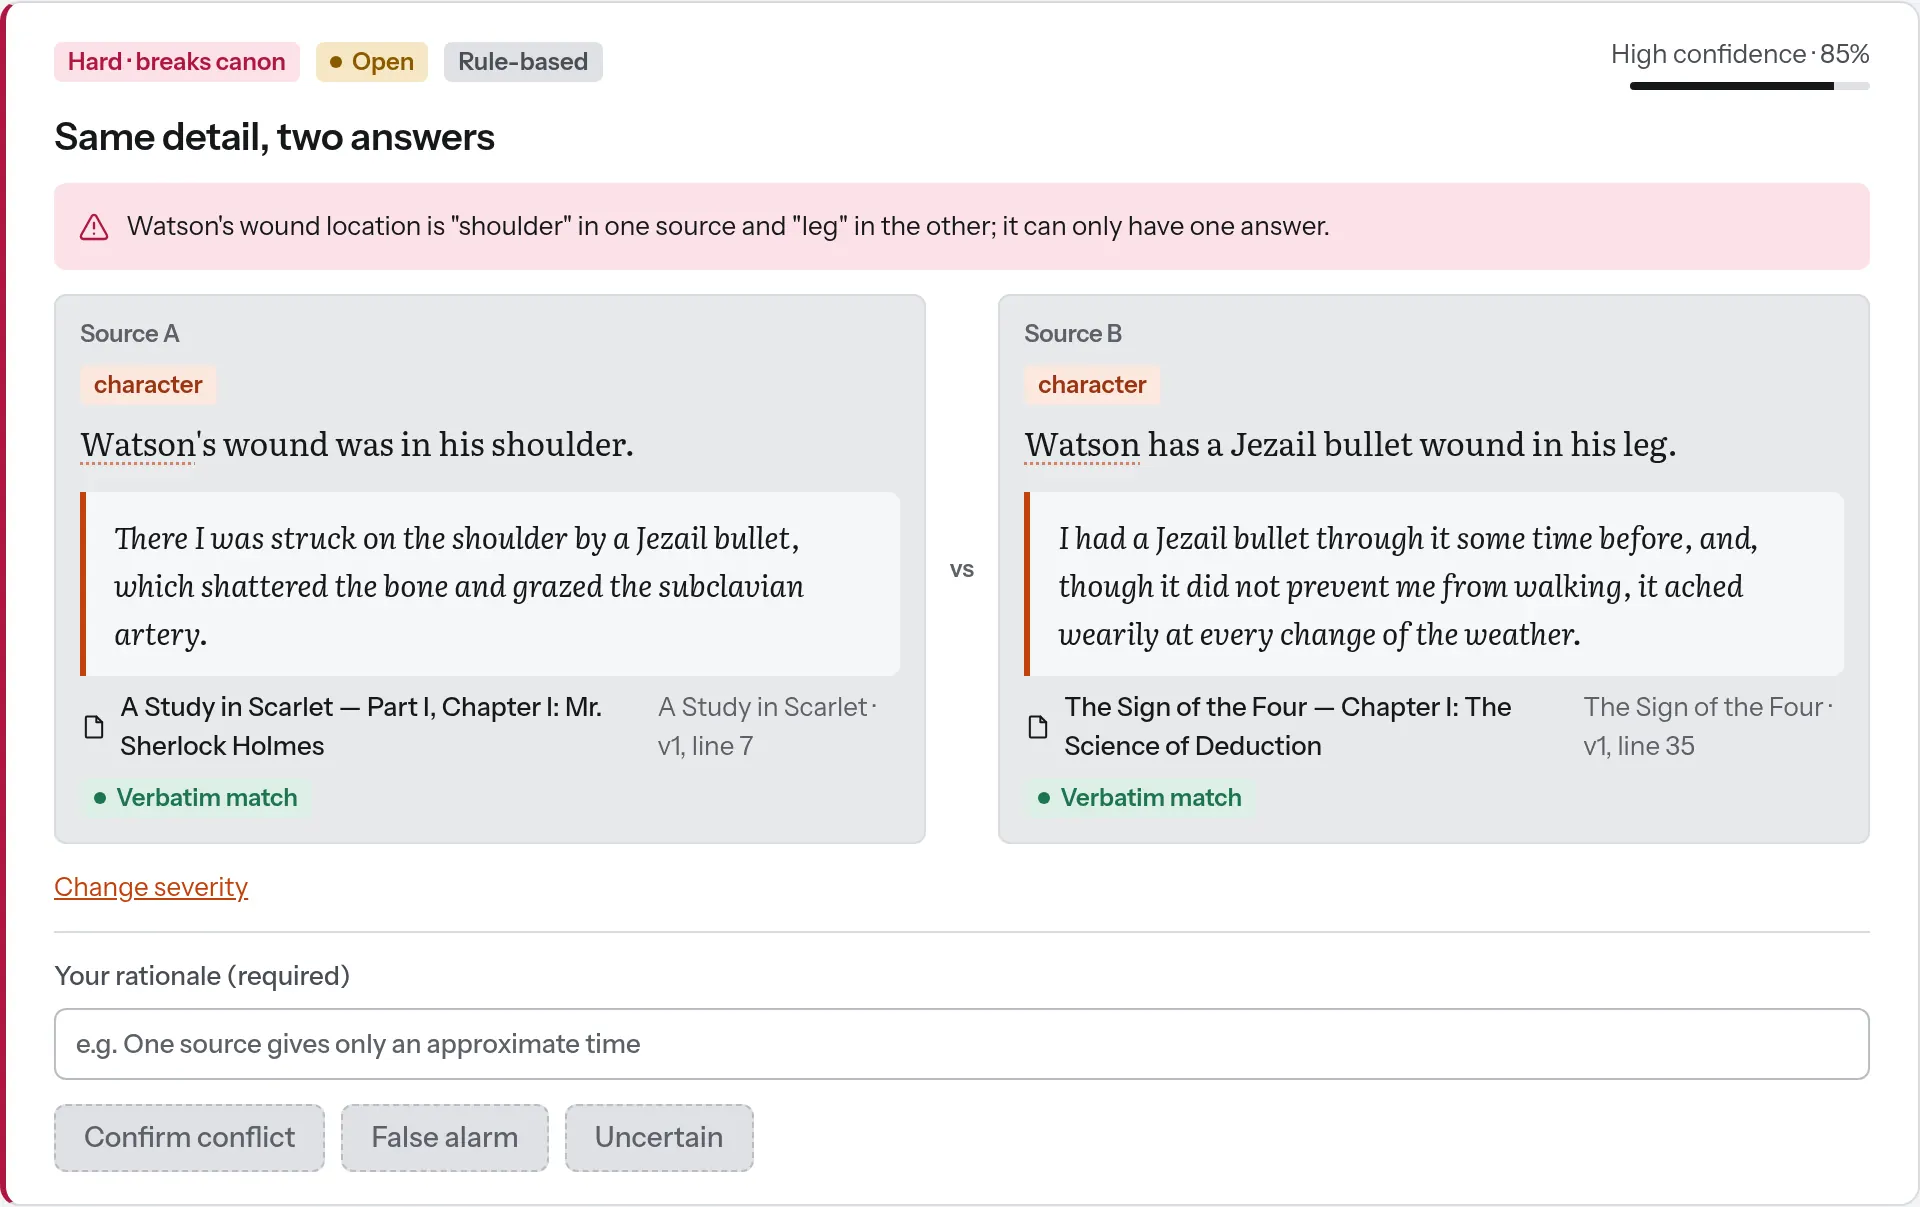
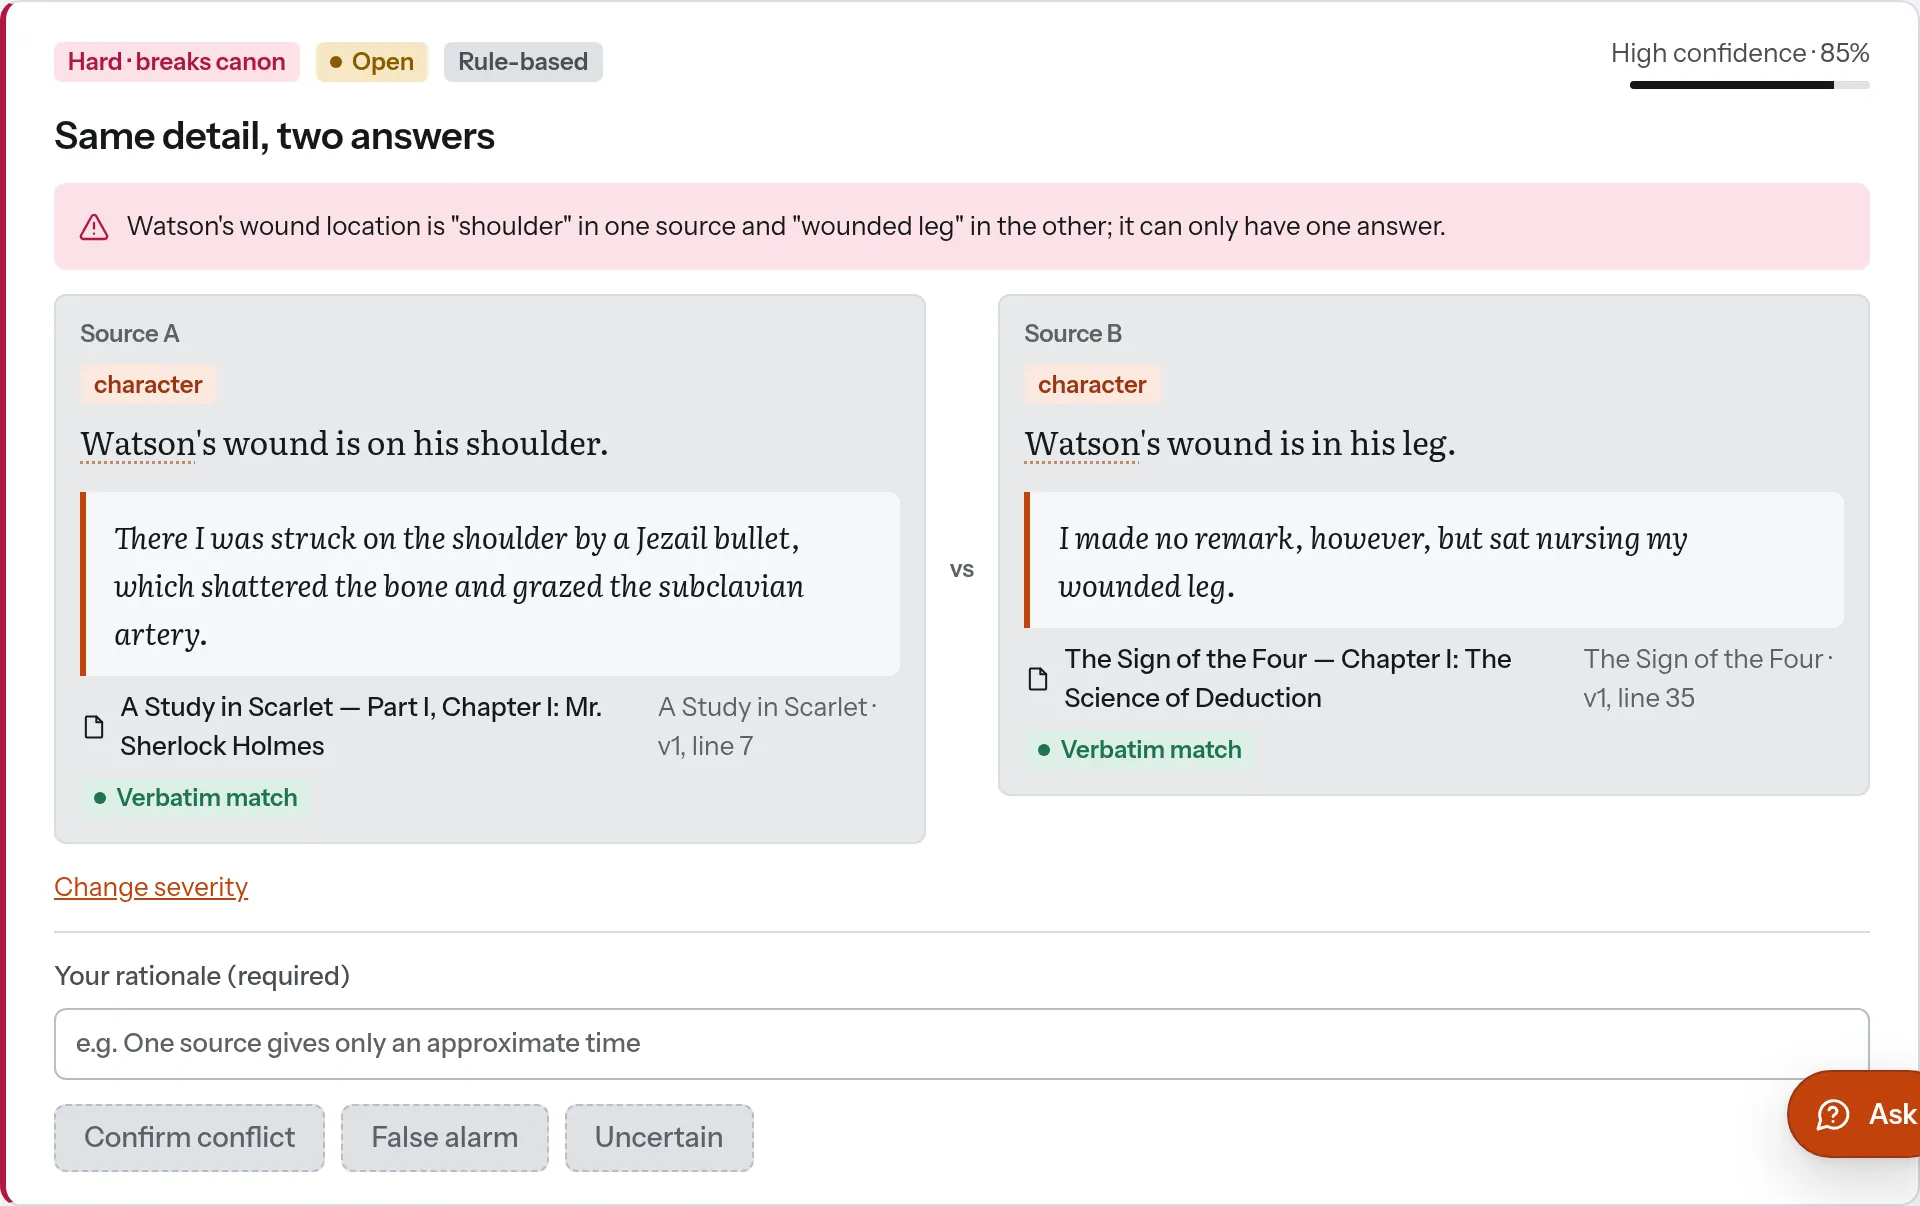
Watson card screenshot, pitch PDF and its alt text from the Muse-recorded Sherlock sample
Claude-Session: https://claude.ai/code/session_018FT5nowQ6S8AfgwKZvpJeF

diff --git a/app/pages/pitch.vue b/app/pages/pitch.vue
@@ -229,7 +229,7 @@ const print = () => window.print()
     <section class="slide d product" aria-labelledby="t5">
       <div class="in">
         <h2 id="t5">Shoulder or leg? Both sentences, side by side.</h2>
-        <img class="screen" src="/shots/watson-card-light-1920.webp" srcset="/shots/watson-card-light-960.webp 960w, /shots/watson-card-light-1920.webp 1920w" sizes="(max-width: 900px) 100vw, 1100px" alt="CanonTracker’s conflict card: “Watson’s wound was in his shoulder” against “Watson has a Jezail bullet wound in his leg”, each with its verbatim quote and chapter." width="1920" height="873">
+        <img class="screen" src="/shots/watson-card-light-1920.webp" srcset="/shots/watson-card-light-960.webp 960w, /shots/watson-card-light-1920.webp 1920w" sizes="(max-width: 900px) 100vw, 1100px" alt="CanonTracker’s conflict card: “Watson’s wound is on his shoulder” against “Watson’s wound is in his leg”, each with its verbatim quote and chapter." width="1920" height="873">
         <p class="caption">A conflict in the Sherlock Holmes sample, found by a rule over accepted canon. A person decides what is true.<R id="repo" /></p>
       </div>
       <Foot :ids="['repo']" n="5" />
